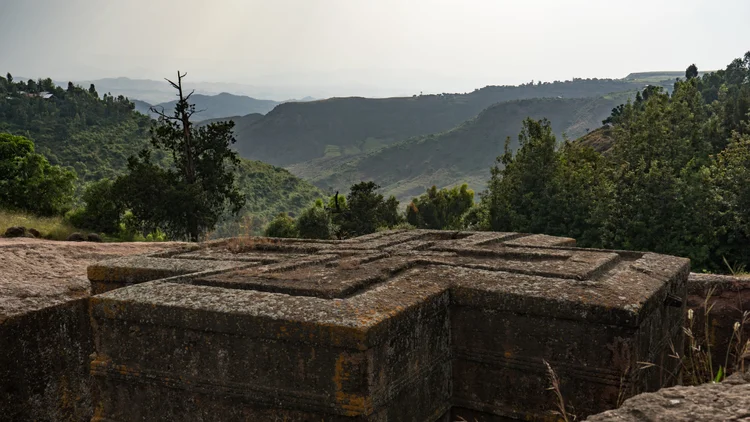
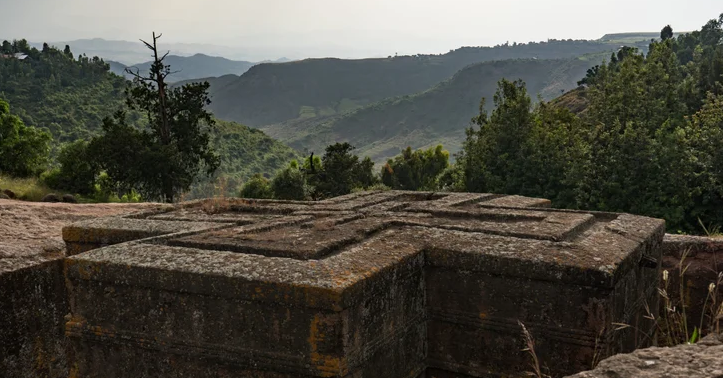
change home page

diff --git a/index.html b/index.html
@@ -5,7 +5,7 @@
     <meta charset="UTF-8">
     <meta name="viewport" content="width=device-width, initial-scale=1.0">
 
-```
+
 <title>WDD 131 – Dynamic Web Fundamentals – Henok Markos</title>
 
 <meta name="description" content="WDD 131 – Dynamic Web Fundamentals. Henok Markos. A personal homepage about my background, Ethiopia, web development, and learning journey.">
@@ -17,17 +17,16 @@
 <link href="https://fonts.googleapis.com/css2?family=Roboto:wght@400;500;700&family=Playfair+Display:wght@600;700&display=swap" rel="stylesheet">
 <link rel="stylesheet" href="styles/base.css">
 <script src="scripts/getdates.js" defer></script>
-```
 
 </head>
 
 <body>
 
-```
+
 <header>
     <span id="course-title">WDD 131 – Dynamic Web Fundamentals</span>
 
-```
+
 <nav>
     <a href="https://www.linkedin.com/" target="_blank">LinkedIn</a>
 
